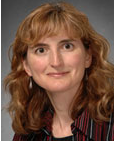
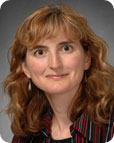
Image Changes

diff --git a/MIBSWebsite/our-people.html b/MIBSWebsite/our-people.html
@@ -120,33 +120,33 @@
           <img src="mgorbet.png" class="portrait" />
         </div>
         <div class="slideshow-pics1  fade">
-          <img src="parisa.jfif" class="portrait">
+          <img src="pHamilton.png" class="portrait">
         </div>
         <div class="slideshow-pics1 fade">
-          <img src="mRobichaud.jfif" class="portrait">
+          <img src="mRobichaud.png" class="portrait">
         </div>
         <div class="slideshow-pics1 fade">
-          <img src="dToameh.jpeg" class="portrait">
+          <img src="dana.png" class="portrait">
         </div>
         <div class="slideshow-pics1 fade">
           <img src="dToameh.jpg" class="portrait">
         </div>
         <div class="slideshow-pics1 fade">
-          <img src="sMohsenkhani.jpg" class="portrait">
+          <img src="sMohsenkhani.png" class="portrait">
         </div>
         <div class="people-description1 fade">
           <h2>Maud Gorbet, <br> Biomedical Engineer</h2>
-          <h3>With a Ph.D. in Biomedical/Medical Engineering, and research experience as seen through her wealth of research papers and innovations, Doctor Gorbet is well equipped for her position as the Material Interaction with Biological Systems laboratory director. Doctor Gorbet is dedicated to aiding millions of people by solving biocompatibility complications between biomaterials and biomedical devices, as well as therapeutics. Through her research, she has published a series of papers which have benefitted the biomedical community by providing the information and insight necessary to develop novel biomaterials, biomedical devices, and therapeutics, and has provided them with improved in vitro models, which more accurately mimic biological systems to ensure that innovations are successful when implemented in the industry. Meanwhile, as biomedical engineering department director and associate professor at the University of Waterloo, Doctor Gorbet is dedicated to ensuring that the future of biomedical engineering is worth being optimistic about, and that her legacy of biocompatibility will be maintained for years to come.
+          <h3>With a Ph.D. in Biomedical/Medical Engineering, and expansive research experience as seen through her wealth of research papers and innovations, Dr. Gorbet is well equipped for her position as the Material Interaction with Biological Systems laboratory director. Dr. Gorbet is dedicated to aiding millions of people by solving biocompatibility complications between biomaterials and biomedical devices, as well as therapeutics. Through her research, she has published a series of papers which have benefitted the biomedical community by providing the information and insight necessary to develop novel biomaterials, biomedical devices, and therapeutics, and has provided them with improved in vitro models, which more accurately mimic biological systems to ensure that innovations are successful when implemented in the industry. Meanwhile, as biomedical engineering department director and associate professor at the University of Waterloo, Dr. Gorbet is dedicated to ensuring that the future of biomedical engineering is worth being optimistic about, and that her legacy of biocompatibility will be maintained for years to come.
         </h3>
         </div>
         <div class="people-description1 fade">
           <h2>Parisa Hamilton, <br> Chemical Engineer</h2>
-          <h3>Through a bachelor’s degree in chemical engineering at the University of Tehran, a master’s degree in chemical engineering, and a PhD in nanotechnological chemical engineering at the University of Waterloo, Dr. Hamilton has acquired the knowledge necessary to excel at the MIBS lab. Not only that, she has procured wisdom through working as a research assistant and associate at the University of Waterloo, completing numerous projects. For instance, for her doctoral thesis, she developed self-assembling peptide based nanocarriers for anticancer drug delivery to stabilize hydrophobic drugs such that a low immune response was induced, while maximal anticancer properties were maintained. Currently, Doctor Hamilton is the liaison between Penta Medical and the MIBS lab and has developed the photo biomodulation device, which she is currently utilizing to study the therapeutic effect of infrared radiation on corneal epithelial cells to improve the rate of wound healing for both healthy and diabetic patients. All said, our lab will certainly miss Dr. Hamilton when she moves on to be a project coordinator at the Center for Bioengineering and Biotechnology.
+          <h3>Through a bachelor’s degree in chemical engineering at the University of Tehran, a master’s degree in chemical engineering, and a PhD in nanotechnological chemical engineering at the University of Waterloo, Dr. Hamilton has acquired the knowledge necessary to excel at the MIBS lab. Not only that, she has procured wisdom through working as a research associate at the University of Waterloo, completing numerous projects. For instance, her doctoral thesis focused on the development of self-assembling peptide based nanocarriers for anticancer drug delivery to stabilize hydrophobic drugs such that a low immune response was induced, while maintaining maximal anticancer properties. Currently, Doctor Hamilton is the liaison between Penta Medical and the MIBS lab and has developed a photo biomodulation device, which she is currently utilizing to study the therapeutic effect of infrared radiation on corneal epithelial cells to improve the rate of wound healing for both healthy and diabetic patients. All said, our lab will certainly miss Dr. Hamilton when she moves on to be a project coordinator at the Center for Bioengineering and Biotechnology.
         </h3>
         </div>
         <div class="people-description1 fade">
           <h2>Matthew Robichaud, <br> Bioengineer</h2>
-          <h3> Even before completing his bachelor’s degree in systems design engineering at the University of Waterloo, Matt began working as a research assistant at the MIBS lab, developing assays, researching contact lenses as a vehicle for controlled drug release, studying mechanobiology, and utilizing immunofluorescent confocal microscopy and flow cytometry to aid in various forms of research, all while overloading his class schedule. Through cooperative education, he was already a versatile worker when beginning at the MIBS lab, having worked in various engineering positions including in Eaton’s lighting department leading the product testing for the North American research and development team.  As for his Capstone project, he worked as part of the Secure team to develop an instrument to minimalize the invasiveness of mitral valve repair by developing a device that automates repetitive and complex parts of the surgery. This project is related to his master’s degree research in which he is testing a device he developed to predict the outcomes of cardiopulmonary bypasses, and eventually develop a point-of-care testing device.  
+          <h3> Even before completing his bachelor’s degree in systems design engineering at the University of Waterloo, Matt began working as a research assistant at the MIBS lab, developing assays, researching contact lenses as a vehicle for controlled drug release, studying mechanobiology, and utilizing immunofluorescent confocal microscopy and flow cytometry to aid in various forms of research, all while overloading his class schedule. Through cooperative education, he was already a versatile worker when beginning at the MIBS lab, having worked in various engineering positions including in Eaton’s lighting department leading the product testing for the North American research and development team.  As for his Capstone project, he worked as part of the Secure team to develop an instrument to minimalize the invasiveness of mitral valve repair by developing a device that automates repetitive and complex parts of the surgery. This project is related to his master’s degree research in which he is testing a device he developed to predict the outcomes of cardiopulmonary bypasses, and eventually develop a point-of-care testing device.
         </div>
         <div class="people-description1 fade">
           <h2>Dana Toameh, <br> Health Scientist</h2>
@@ -176,34 +176,34 @@
           <img src="mgorbet.png" class="portrait" />
         </div>
         <div class="slideshow-pics2  fade">
-          <img src="parisa.jfif" class="portrait">
+          <img src="pHamilton.png" class="portrait">
         </div>
         <div class="slideshow-pics2 fade">
-          <img src="mRobichaud.jfif" class="portrait">
+          <img src="mRobichaud.png" class="portrait">
         </div>
         <div class="slideshow-pics2 fade">
-          <img src="dToameh.jpeg" class="portrait">
+          <img src="dana.png" class="portrait">
         </div>
         <div class="slideshow-pics2 fade">
           <img src="dToameh.jpg" class="portrait">
         </div>
         <div class="slideshow-pics2 fade">
-          <img src="sMohsenkhani.jpg" class="portrait">
+          <img src="sMohsenkhani.png" class="portrait">
         </div>
         <div class="slideshow-pics3 fade">
-          <img src="parisa.jfif" class="portrait">
+          <img src="pHamilton.png" class="portrait">
         </div>
         <div class="slideshow-pics3 fade">
-          <img src="mRobichaud.jfif" class="portrait" />
+          <img src="mRobichaud.png" class="portrait" />
         </div>
         <div class="slideshow-pics3  fade">
-          <img src="dToameh.jpeg" class="portrait">
+          <img src="dana.png" class="portrait">
         </div>
         <div class="slideshow-pics3  fade">
           <img src="dToameh.jpg" class="portrait">
         </div>
         <div class="slideshow-pics3  fade">
-          <img src="sMohsenkhani.jpg" class="portrait">
+          <img src="sMohsenkhani.png" class="portrait">
         </div>
         <div class="slideshow-pics3 fade">
             <img src="mgorbet.png" class="portrait" />
@@ -257,11 +257,11 @@
       </div>
       <div class="our-people-text">
         <div class="people-description2 fade">
-          <h3> With a Ph.D. in Biomedical/Medical Engineering, and research experienced as seen through her wealth of research papers and innovations, Doctor Gorbet has been well equipped for her position as the Material Interaction with Biological Systems laboratory director. Doctor Gorbet is dedicated to aiding millions of people by solving biocompatibility complications between biomaterials and biomedical devices, as well as therapeutics. Through her research, she has published a series of papers which have benefitted the biomedical community by providing the information and insight necessary to develop novel biomaterials, biomedical devices, and therapeutics, and has provided them with improved in vitro models, which more accurately mimic biological systems to ensure that innovations are successful when implemented in the industry. Meanwhile, as biomedical engineering department director and associate professor at the University of Waterloo, Doctor Gorbet is dedicated to ensuring that the future of biomedical engineering is optimistic, and that her legacy of biocompatibility will be maintained for years to come.
+          <h3> With a Ph.D. in Biomedical/Medical Engineering, and expansive research experience as seen through her wealth of research papers and innovations, Dr. Gorbet is well equipped for her position as the Material Interaction with Biological Systems laboratory director. Dr. Gorbet is dedicated to aiding millions of people by solving biocompatibility complications between biomaterials and biomedical devices, as well as therapeutics. Through her research, she has published a series of papers which have benefitted the biomedical community by providing the information and insight necessary to develop novel biomaterials, biomedical devices, and therapeutics, and has provided them with improved in vitro models, which more accurately mimic biological systems to ensure that innovations are successful when implemented in the industry. Meanwhile, as biomedical engineering department director and associate professor at the University of Waterloo, Dr. Gorbet is dedicated to ensuring that the future of biomedical engineering is worth being optimistic about, and that her legacy of biocompatibility will be maintained for years to come.
               </h3>
         </div>
         <div class="people-description2 fade">
-          <h3> Through a bachelor’s degree in chemical engineering at the University of Tehran, a master’s degree in chemical engineering, and a PhD in nanotechnological chemical engineering at the University of Waterloo, Dr. Hamilton has acquired the knowledge necessary to excel at the MIBS lab. Not only that, she has procured wisdom through working as a research assistant and associate at the University of Waterloo, completing numerous projects. For instance, for her doctoral thesis, she developed self-assembling peptide based nanocarriers for anticancer drug delivery to stabilize hydrophobic drugs such that a low immune response was induced, while maximal anticancer properties were maintained. Currently, Doctor Hamilton is the liaison between Penta Medical and the MIBS lab and has developed the photo biomodulation device, which she is currently utilizing to study the therapeutic effect of infrared radiation on corneal epithelial cells to improve the rate of wound healing for both healthy and diabetic patients. All said, our lab will certainly miss Dr. Hamilton when she moves on to be a project coordinator at the Center for Bioengineering and Biotechnology.
+          <h3> Through a bachelor’s degree in chemical engineering at the University of Tehran, a master’s degree in chemical engineering, and a PhD in nanotechnological chemical engineering at the University of Waterloo, Dr. Hamilton has acquired the knowledge necessary to excel at the MIBS lab. Not only that, she has procured wisdom through working as a research associate at the University of Waterloo, completing numerous projects. For instance, her doctoral thesis focused on the development of self-assembling peptide based nanocarriers for anticancer drug delivery to stabilize hydrophobic drugs such that a low immune response was induced, while maintaining maximal anticancer properties. Currently, Doctor Hamilton is the liaison between Penta Medical and the MIBS lab and has developed a photo biomodulation device, which she is currently utilizing to study the therapeutic effect of infrared radiation on corneal epithelial cells to improve the rate of wound healing for both healthy and diabetic patients. All said, our lab will certainly miss Dr. Hamilton when she moves on to be a project coordinator at the Center for Bioengineering and Biotechnology.
               </h3>
         </div>
         <div class="people-description2 fade">
@@ -281,7 +281,7 @@
               </h3>
         </div>
         <div class="people-description3 fade">
-          <h3> Through a bachelor’s degree in chemical engineering at the University of Tehran, a master’s degree in chemical engineering, and a PhD in nanotechnological chemical engineering at the University of Waterloo, Dr. Hamilton has acquired the knowledge necessary to excel at the MIBS lab. Not only that, she has procured wisdom through working as a research assistant and associate at the University of Waterloo, completing numerous projects. For instance, for her doctoral thesis, she developed self-assembling peptide based nanocarriers for anticancer drug delivery to stabilize hydrophobic drugs such that a low immune response was induced, while maximal anticancer properties were maintained. Currently, Doctor Hamilton is the liaison between Penta Medical and the MIBS lab and has developed the photo biomodulation device, which she is currently utilizing to study the therapeutic effect of infrared radiation on corneal epithelial cells to improve the rate of wound healing for both healthy and diabetic patients. All said, our lab will certainly miss Dr. Hamilton when she moves on to be a project coordinator at the Center for Bioengineering and Biotechnology.
+          <h3> Through a bachelor’s degree in chemical engineering at the University of Tehran, a master’s degree in chemical engineering, and a PhD in nanotechnological chemical engineering at the University of Waterloo, Dr. Hamilton has acquired the knowledge necessary to excel at the MIBS lab. Not only that, she has procured wisdom through working as a research associate at the University of Waterloo, completing numerous projects. For instance, her doctoral thesis focused on the development of self-assembling peptide based nanocarriers for anticancer drug delivery to stabilize hydrophobic drugs such that a low immune response was induced, while maintaining maximal anticancer properties. Currently, Doctor Hamilton is the liaison between Penta Medical and the MIBS lab and has developed a photo biomodulation device, which she is currently utilizing to study the therapeutic effect of infrared radiation on corneal epithelial cells to improve the rate of wound healing for both healthy and diabetic patients. All said, our lab will certainly miss Dr. Hamilton when she moves on to be a project coordinator at the Center for Bioengineering and Biotechnology.
               </h3>
         </div>
         <div class="people-description3 fade">
@@ -301,7 +301,7 @@
               </h3>
         </div>
         <div class="people-description3 fade">
-          <h3>With a Ph.D. in Biomedical/Medical Engineering, and research experienced as seen through her wealth of research papers and innovations, Doctor Gorbet has been well equipped for her position as the Material Interaction with Biological Systems laboratory director. Doctor Gorbet is dedicated to aiding millions of people by solving biocompatibility complications between biomaterials and biomedical devices, as well as therapeutics. Through her research, she has published a series of papers which have benefitted the biomedical community by providing the information and insight necessary to develop novel biomaterials, biomedical devices, and therapeutics, and has provided them with improved in vitro models, which more accurately mimic biological systems to ensure that innovations are successful when implemented in the industry. Meanwhile, as biomedical engineering department director and associate professor at the University of Waterloo, Doctor Gorbet is dedicated to ensuring that the future of biomedical engineering is optimistic, and that her legacy of biocompatibility will be maintained for years to come.
+          <h3>With a Ph.D. in Biomedical/Medical Engineering, and expansive research experience as seen through her wealth of research papers and innovations, Dr. Gorbet is well equipped for her position as the Material Interaction with Biological Systems laboratory director. Dr. Gorbet is dedicated to aiding millions of people by solving biocompatibility complications between biomaterials and biomedical devices, as well as therapeutics. Through her research, she has published a series of papers which have benefitted the biomedical community by providing the information and insight necessary to develop novel biomaterials, biomedical devices, and therapeutics, and has provided them with improved in vitro models, which more accurately mimic biological systems to ensure that innovations are successful when implemented in the industry. Meanwhile, as biomedical engineering department director and associate professor at the University of Waterloo, Dr. Gorbet is dedicated to ensuring that the future of biomedical engineering is worth being optimistic about, and that her legacy of biocompatibility will be maintained for years to come.
               </h3>
         </div>
       </div>

diff --git a/MIBSWebsite/our-research.html b/MIBSWebsite/our-research.html
@@ -157,11 +157,11 @@
     </div>
     <div class="research-description fade">
       <a href="https://www.mendeley.com/research-papers/extended-latanoprost-release-commercial-contact-lenses-vitro-studies-using-corneal-models/" target="_blank"> <h2 title="Link to Research">Investigation of Latanoprost Release from Contact Lens Materials Using in vitro Cell Models</h2></a>
-      <h3> In this study research was conducted to evaluate the ability of contact lenses to uptake and release glaucoma drugs in vitro. This experiment was conducted by allowing different contact lenses to soak in solutions of glaucoma drugs for 24 hours. Afterwards, the lenses were placed on one of three models, a monolayer with human corneal epithelial cells (HCECs), a multilayer with HCECs, and a PET insert without any cells. Over 48 hours, the drug diffusion was calculated periodically for each of the contact lens types and was repeated in different mediums. Previous literature has demonstrated that this method has a low potential for drug administration, and that hydrophobic interactions between the drug and the contact lens material is the determining factor for adsorption. However, most of these studies have only been conducted on deionized water, phosphate buffered saline, and artificial tear solutions. Sources also state that the amount of drug released is also significantly greater in vivo than in vitro. In total, the results demonstrated that in cell-based in vitro models, the drug release is significantly higher than models without cells even when using different media in the no-cells model, and a dead-cell model. Regardless, only 2-3% of the drug adsorbed by the contact lens was released after 24 hours. Nonetheless, more drug may possibly be released from silicon hydrogels making them potentially useful for an ocular drug delivery system in the future. Overall, this research exemplifies the importance of using cell models for studying drug release in instances where the drug must be metabolized before being diffused within the tissue. In the future, a Tear Replenishment System will be deployed in our studies to more accurately simulate the dynamic environment characteristic to the front of the eye.
+      <h3> In this study research was conducted to evaluate the ability of contact lenses to uptake and release glaucoma drugs in vitro. This experiment was conducted by allowing different contact lenses to soak in solutions of glaucoma drugs for 24 hours. Afterwards, the lenses were placed on one of three models, a monolayer with human corneal epithelial cells (HCECs), a multilayer with HCECs, and a PET insert without any cells. Over 48 hours, the drug diffusion was calculated periodically for each of the contact lens types and was repeated in different mediums. Previous literature has demonstrated that this method has a low potential for drug administration, and that hydrophobic interactions between the drug and the contact lens material is the determining factor for adsorption. However, most of these studies have only been conducted on deionized water, phosphate buffered saline, and artificial tear solutions. Sources also state that the amount of drug released is also significantly greater in vivo than in vitro. In total, the results demonstrated that in cell-based in vitro models, the drug release is significantly higher than models without cells even when using different media in the no-cells model, and a dead-cell model. Regardless, only 2-3% of the drug adsorbed by the contact lens was released after 24 hours. Nonetheless, more drug may possibly be released from silicon hydrogels making them potentially useful for an ocular drug delivery system in the future. Overall, this research exemplifies the importance of cell models for the study of drug release in instances where the drug must be metabolized before being diffused within the tissue. In the future, a Tear Replenishment System will be deployed in our studies to more accurately simulate the dynamic environment characteristic to the front of the eye.
     </div>
     <div class="research-description fade">
     <a href="https://www.tandfonline.com/doi/full/10.1080/09273948.2017.1281423" target="_blank">  <h2 title="Link to Research">Untangling the Mysteries of the Tear Film Neutrophil</h2> </a>
-      <h3> Polymorphonuclear neutrophils (PMNs) invade the cornea while the eye is closed. A closed-eye environment is also known to induce hypoxia, tear components, and interactions with corneal epithelial cells, which could be responsible for the difference between tear PMNs and blood-isolated PMNs. This study was conducted to determine if, by exposing blood-isolated neutrophils to this environment that they could mimic the tear-film neutrophils to develop improved in vitro models to more accurately study ocular inflammation. In this experiment, tear PMNs were collected from donors via having the volunteers wash the PMNs off of their corneas immediately after waking up and collecting them in a test tube. Meanwhile, blood was also collected, and the neutrophils were isolated from these samples. The tear PMNs were immediately stimulated with LPS (known to induce inflammation), PMA (synthetic endotoxin and inflammatory stimulant), and fMLP (cytokine for activation) and analyzed with flow cytometry to determine certain gene expressions. Afterwards, the isolated neutrophils were exposed to FBS and ATS, half of which were immediately tested in the same manner as the tear PMNs. Meanwhile, the other half of these neutrophils were exposed to hypoxia normoxia and were allowed to interact with human corneal epithelial cells for 6 hours, and were tested in the same fashion immediately after. Once the cellular data was observed, it was clear that the experiment did not cause the isolated neutrophils to mimic the tear film neutrophils. However, the experiment demonstrated that exposure to human corneal epithelial cells, incubation time, and different media do induce significant changes to isolated neutrophils. Regardless of these results, future experiments will be conducted as the development of tear film neutrophil models are essential to study material interactions in the cornea in vitro.
+      <h3> Polymorphonuclear neutrophils (PMNs) invade the cornea while the eye is closed. A closed-eye environment is also known to induce hypoxia, tear components, and interactions with corneal epithelial cells, which could be responsible for the difference between tear PMNs and blood-isolated PMNs. This study was conducted to determine if, by exposing blood-isolated neutrophils to this environment that they could mimic the tear-film neutrophils to develop improved in vitro models to more accurately study ocular inflammation. In this experiment, tear PMNs were collected from donors via having the volunteers wash the PMNs off their corneas immediately after waking up and collecting them in a test tube. Meanwhile, blood was also collected, and the neutrophils were isolated from these samples. The tear PMNs were immediately stimulated with LPS (known to induce inflammation), PMA (synthetic endotoxin and inflammatory stimulant), and fMLP (cytokine for activation) and analyzed with flow cytometry to determine certain gene expressions. Afterwards, the isolated neutrophils were exposed to FBS and ATS, half of which were immediately tested in the same manner as the tear PMNs. Meanwhile, the other half of these neutrophils were exposed to hypoxia normoxia and were allowed to interact with human corneal epithelial cells for 6 hours. Immediately afterwards, they were tested in the same fashion. Once the cellular data was observed, it was clear that the experiment did not cause the isolated neutrophils to mimic the tear film neutrophils. However, the experiment demonstrated that exposure to human corneal epithelial cells, incubation time, and different media do induce significant changes to isolated neutrophils. Regardless of these results, future experiments will be conducted as the development of tear film neutrophil models are essential to study material interactions in the cornea in vitro.
       </h3>
     </div>
     <div class="research-description fade">
